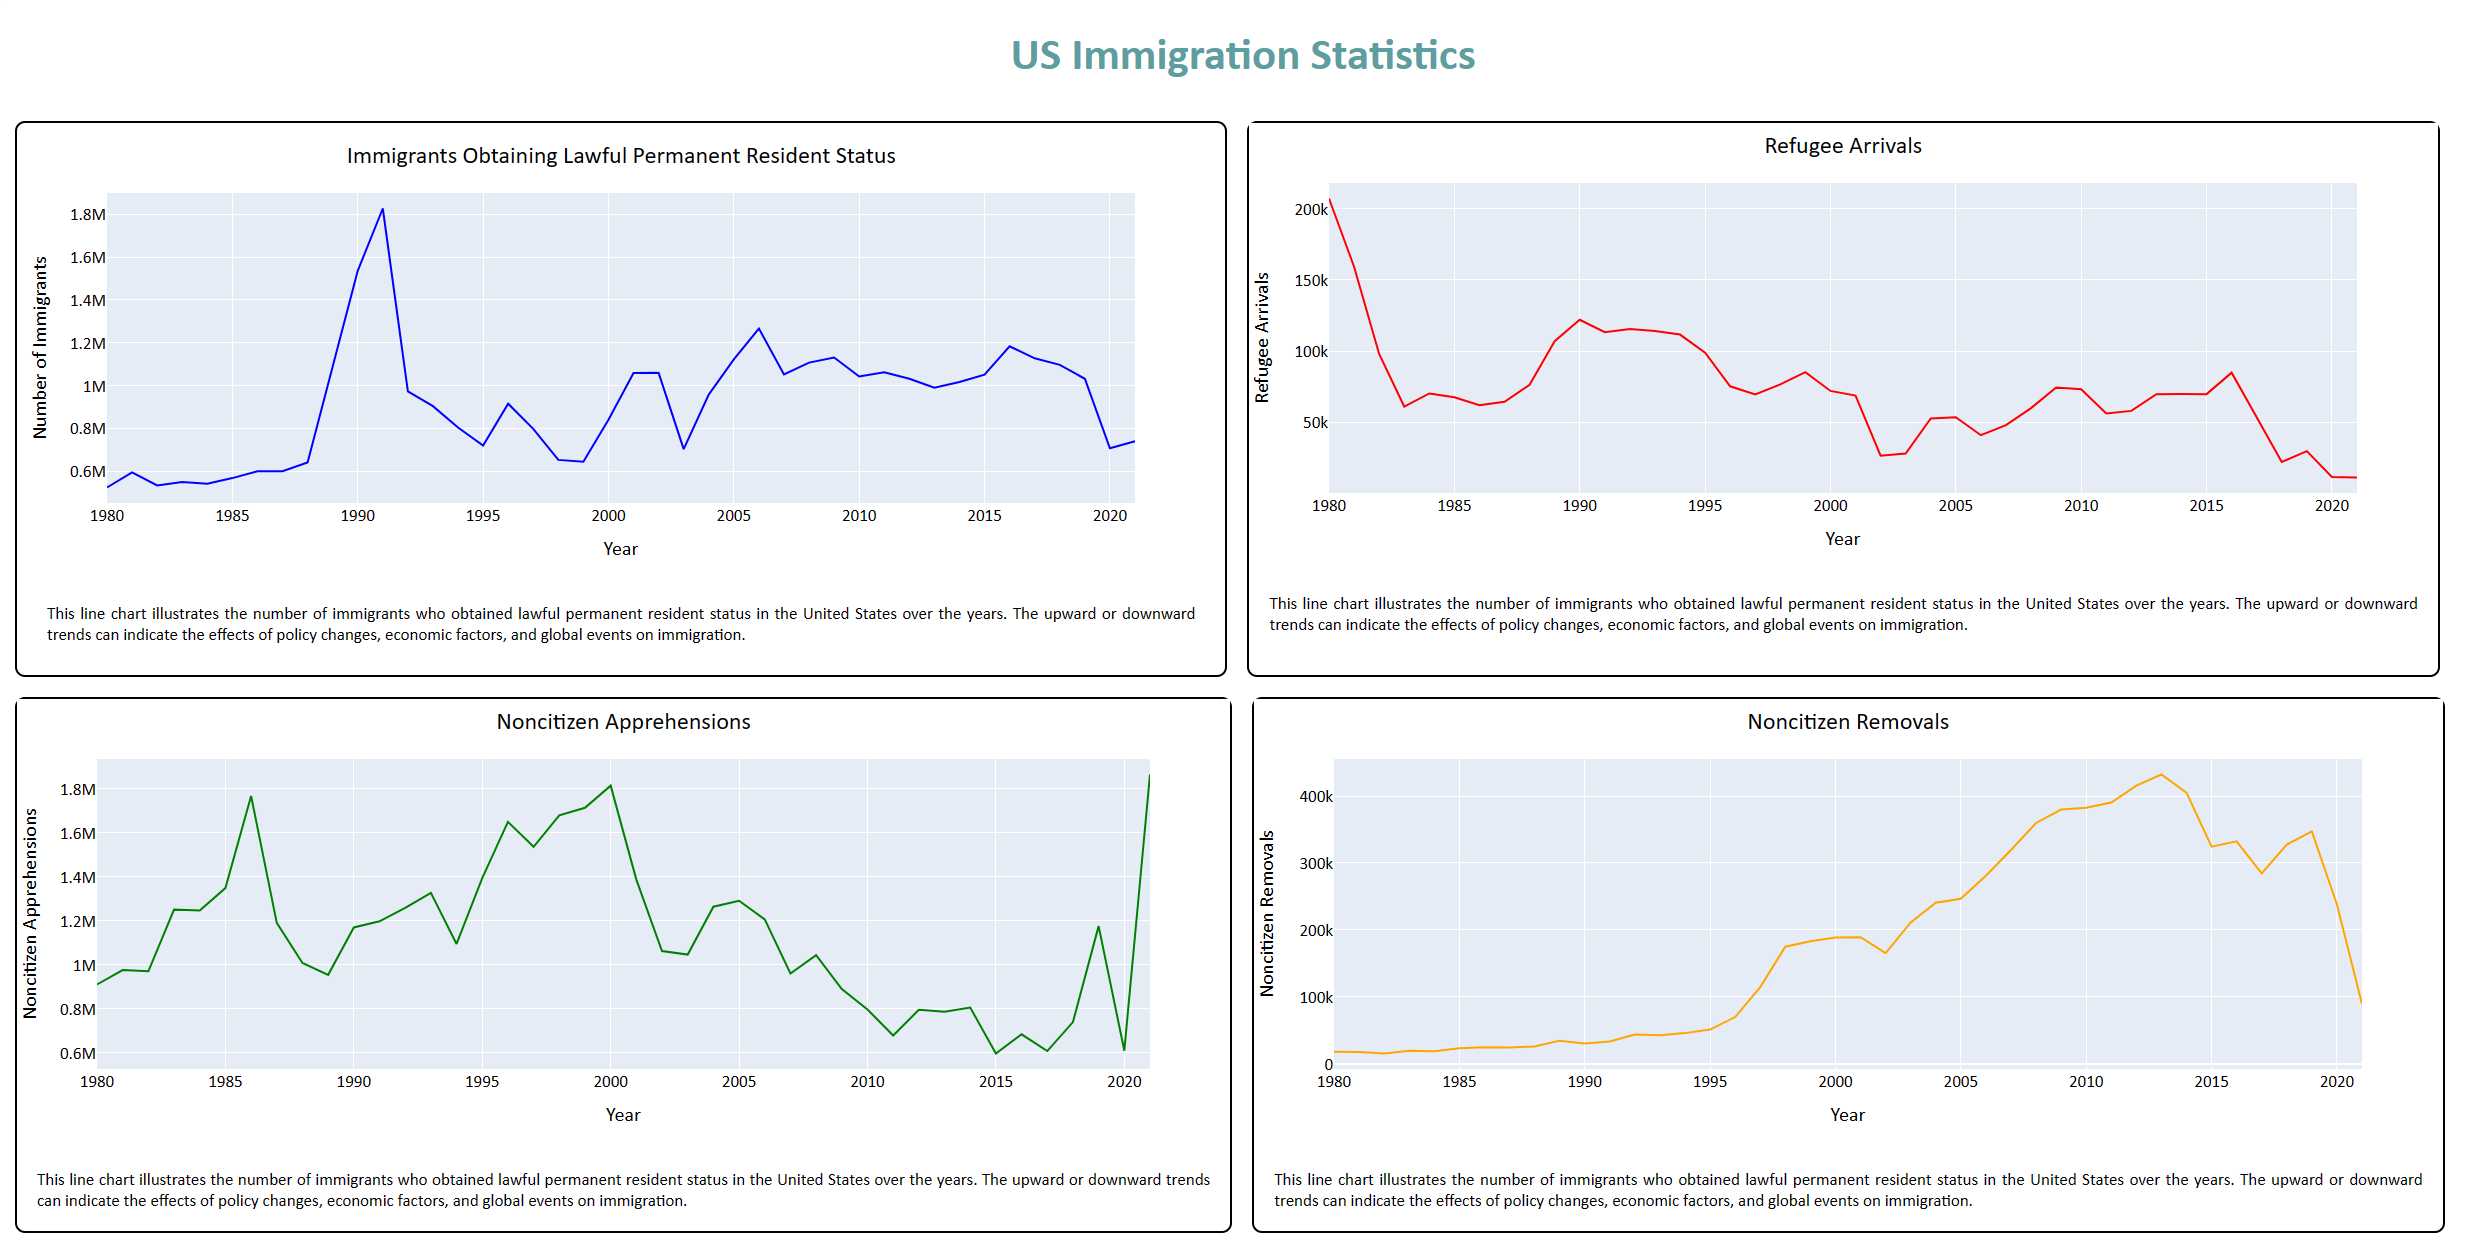
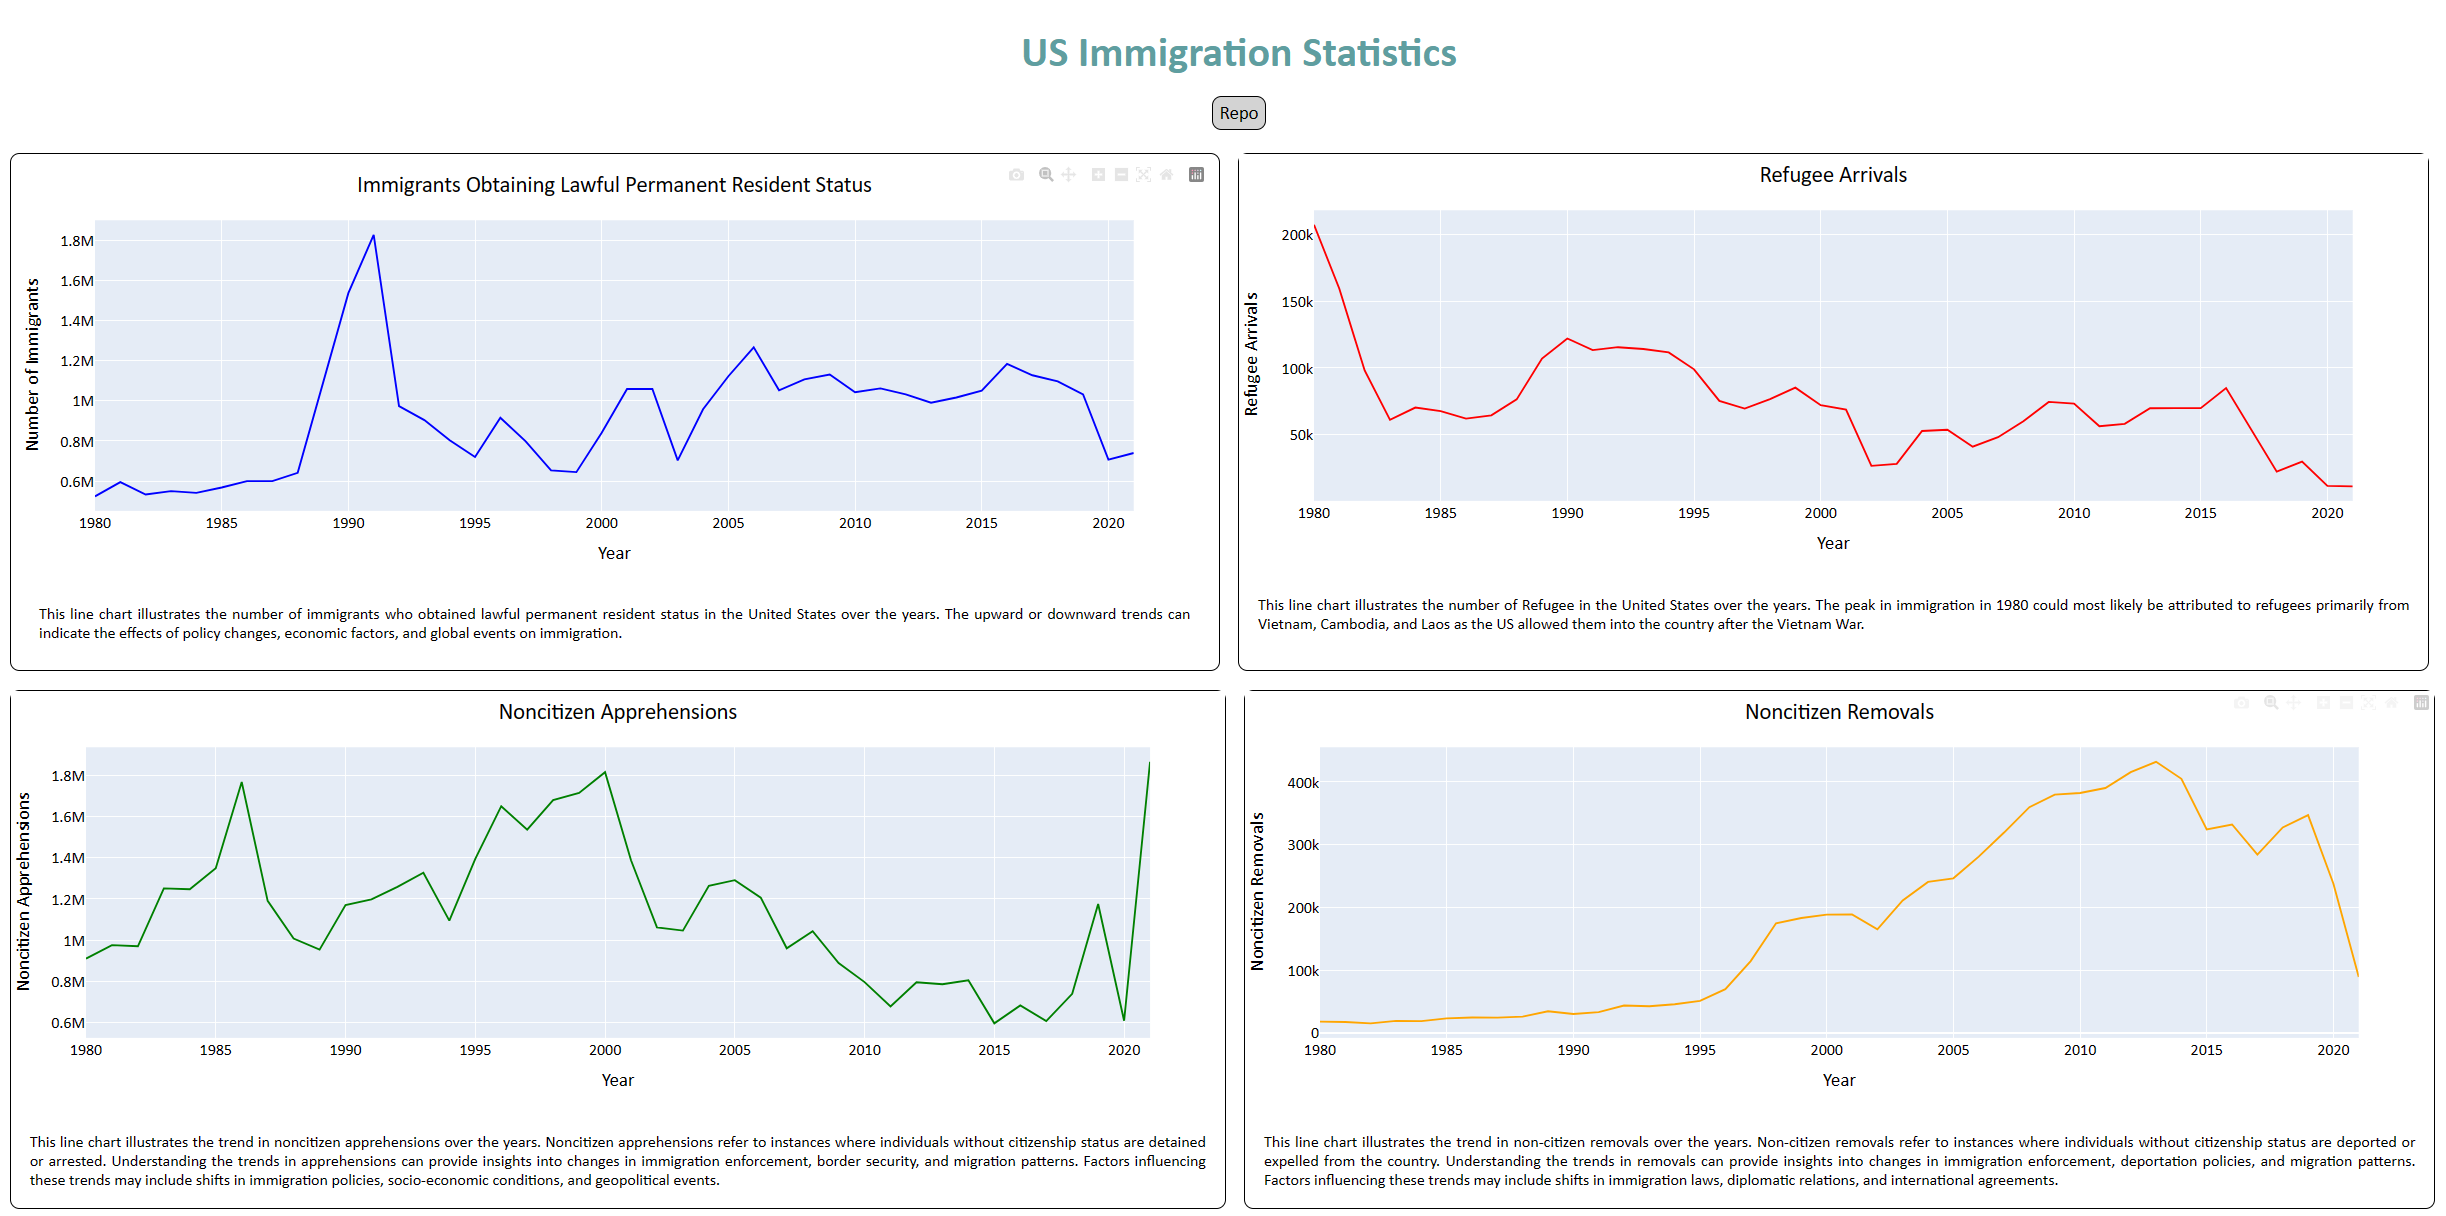
added button for repo

diff --git a/assets/style.css b/assets/style.css
@@ -1,0 +1,22 @@
+
+.btn {
+  display: inline-block;
+  text-align: center;
+  margin: 15px auto;
+  color:black;
+  background-color: lightgray;
+  border: 2px solid black;
+  border-radius: 10px;
+  font-size: 20px;
+  font-family: 'Calibri';
+  padding: 5px 7px;
+  text-decoration: none;
+}
+
+.btn:hover {
+  opacity: 0.7; /* Set the opacity to 70% on hover */
+}
+
+.btn:active {
+  transform: translate(0, 3px); /* Move the button 10 pixels down on hover */
+}

diff --git a/us_immigration.py b/us_immigration.py
@@ -124,10 +124,23 @@ server= app.server
 
 app.layout = html.Div(children=[ 
 
-            # Title
-            html.H1('US Immigration Statistics', 
-              style={'textAlign': 'center', 'color': 'cadetblue',
-              'fontSize': 45, 'font-family':'Calibri'}),
+            html.Div([
+
+                html.H1('US Immigration Statistics', 
+                style={'textAlign': 'center', 'color': 'cadetblue',
+                'fontSize': 45, 'font-family':'Calibri', 'marginBottom':'5px'}),
+
+                html.A(
+                'Repo',
+                href='https://github.com/CxLos/US_Immigration_Statistics',
+                className='btn')],
+                style={'display': 'flex', 
+                        'flexDirection':'column',
+                        'textAlign': 'center', 
+                        'margin':'0px'}
+            ),
+
+            
 
             # html.Br(),
 
@@ -238,7 +251,7 @@ app.layout = html.Div(children=[
 
 # Run the app
 if __name__ == '__main__':
-    app.run_server(debug=False, 
+    app.run_server(debug=True, 
                   #  port=8055
                    )
 
